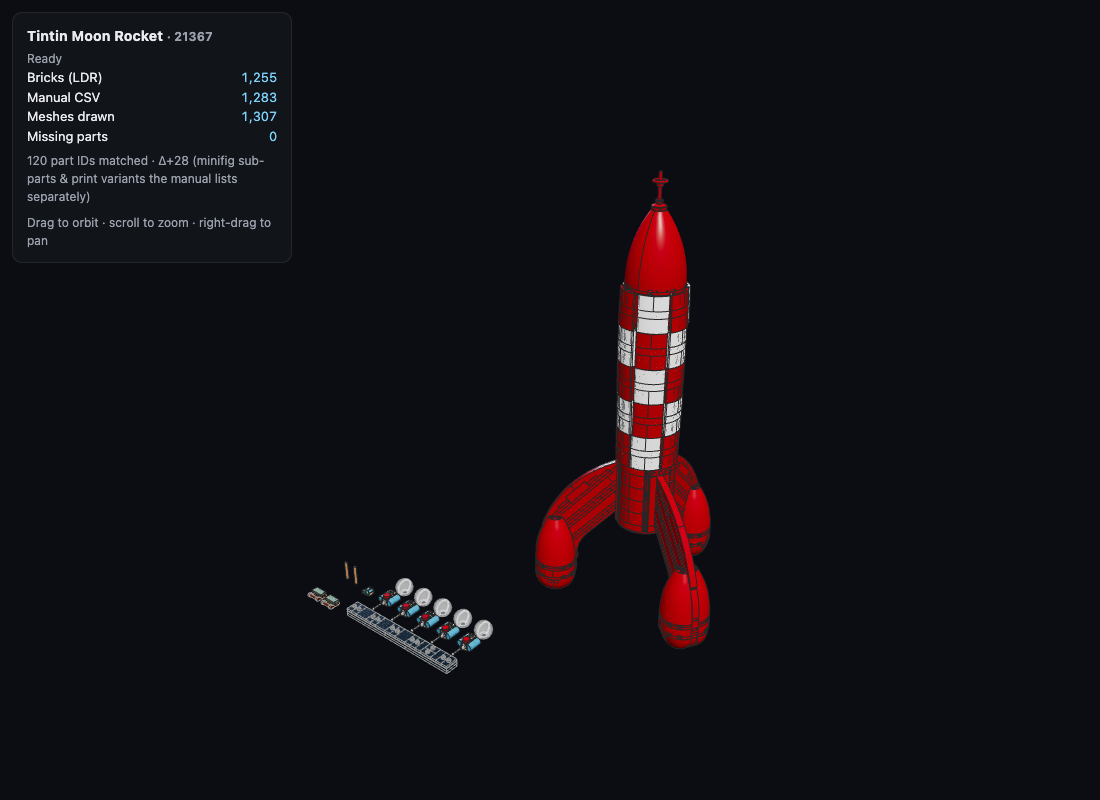
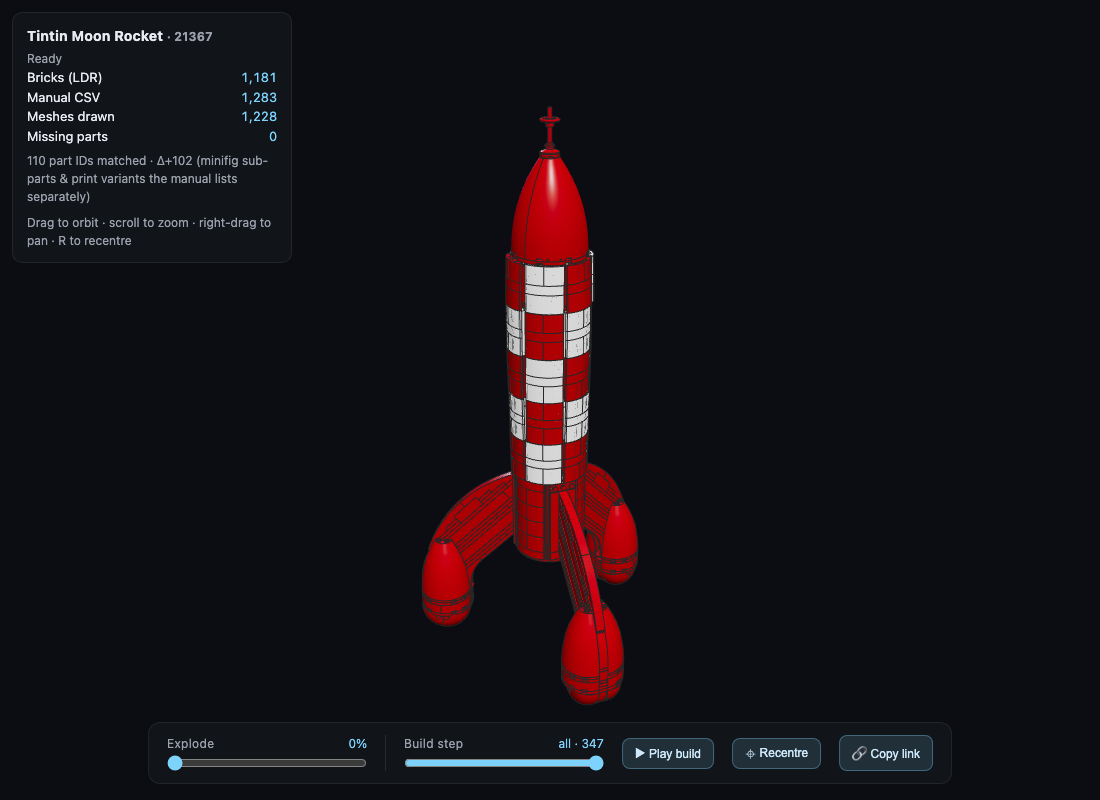
Update README deploy docs and refresh screenshot
Auto-deploy on push is now connected in Vercel, so the README no longer
tells readers to rely on the manual prebuilt-deploy path. The screenshot
predated the minifig-gear strip-out and showed stale HUD stats; replaced
with a fresh capture of the current rocket-only model.

diff --git a/README.md b/README.md
@@ -288,17 +288,18 @@ is the single source of truth for the sliders, updated via
 
 ## Deploying
 
-Deployed to Vercel from prebuilt output (`npm run deploy`, i.e.
-`vercel build --prod && vercel deploy --prebuilt --prod`) rather than letting
+The GitHub repo is connected to Vercel (Vercel dashboard → Project → Settings →
+Git), so **pushing to `main` auto-deploys** — Vercel clones the repo and builds
+it server-side on every push, no local step required.
+
+`npm run deploy` (i.e. `vercel build --prod && vercel deploy --prebuilt --prod`)
+remains available for a manual/local deploy — e.g. to publish uncommitted
+changes, or if you ever need to deploy from a machine without git push access.
+It builds locally and uploads only the prebuilt output, rather than letting
 Vercel build from raw source — a plain `vercel --prod` tries to upload the whole
 working directory and hits Vercel's 15,000-file cap (mostly `node_modules`).
-First-time setup: `npx vercel link` to connect this directory to a Vercel
-project, then `npm run deploy`.
-
-The GitHub repo is private, so **auto-deploy on push isn't connected** — Vercel's
-CLI can't authorize a private repo without a one-time consent flow in the
-browser (Vercel dashboard → Project → Settings → Git → Connect). Until then,
-`npm run deploy` is the way to publish changes.
+First-time setup for this path: `npx vercel link` to connect this directory to
+a Vercel project.
 
 ## Extending it further
 
